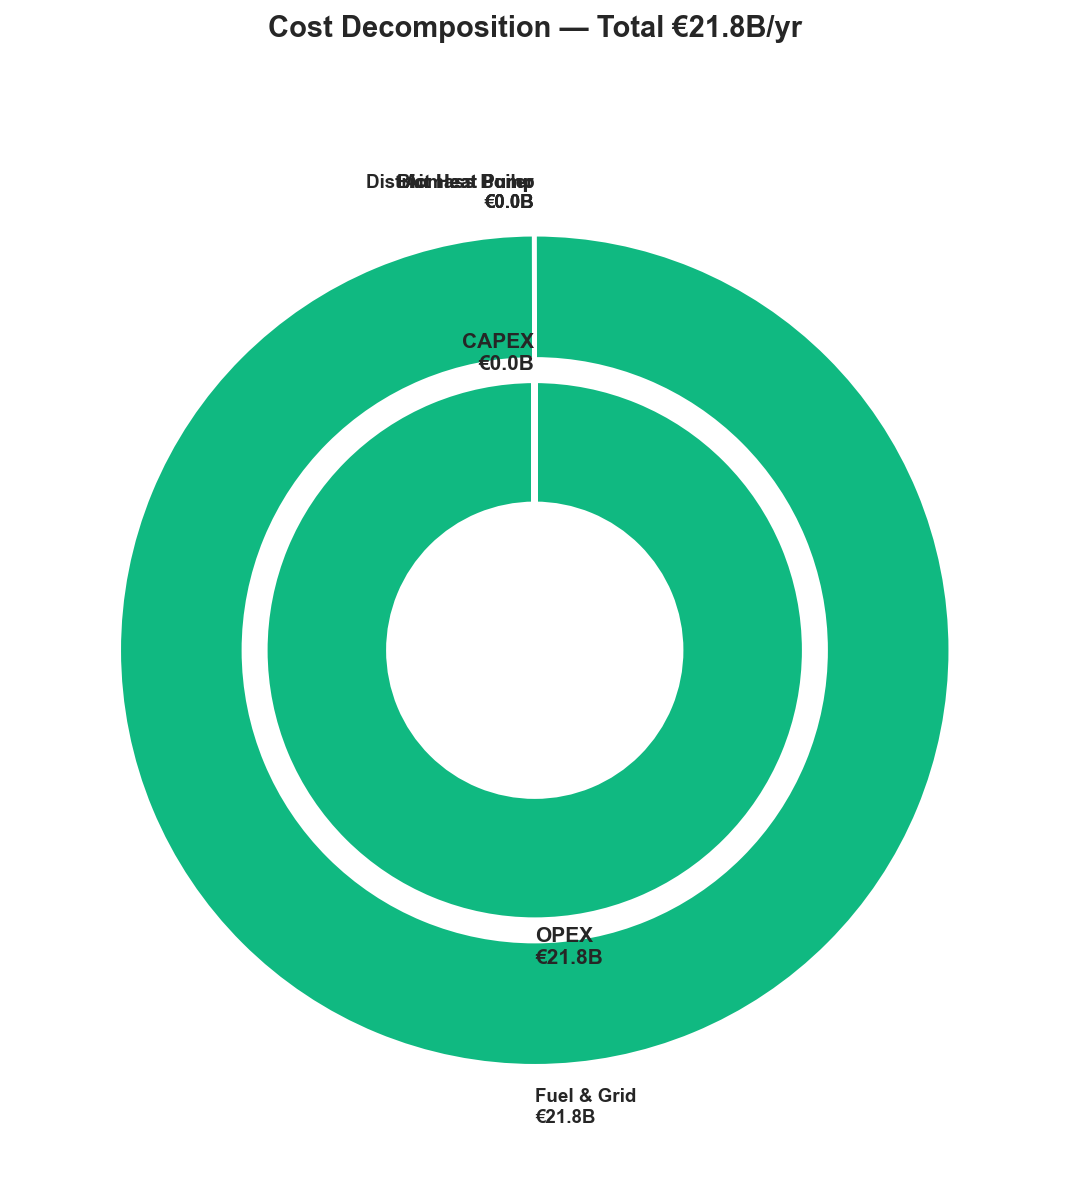
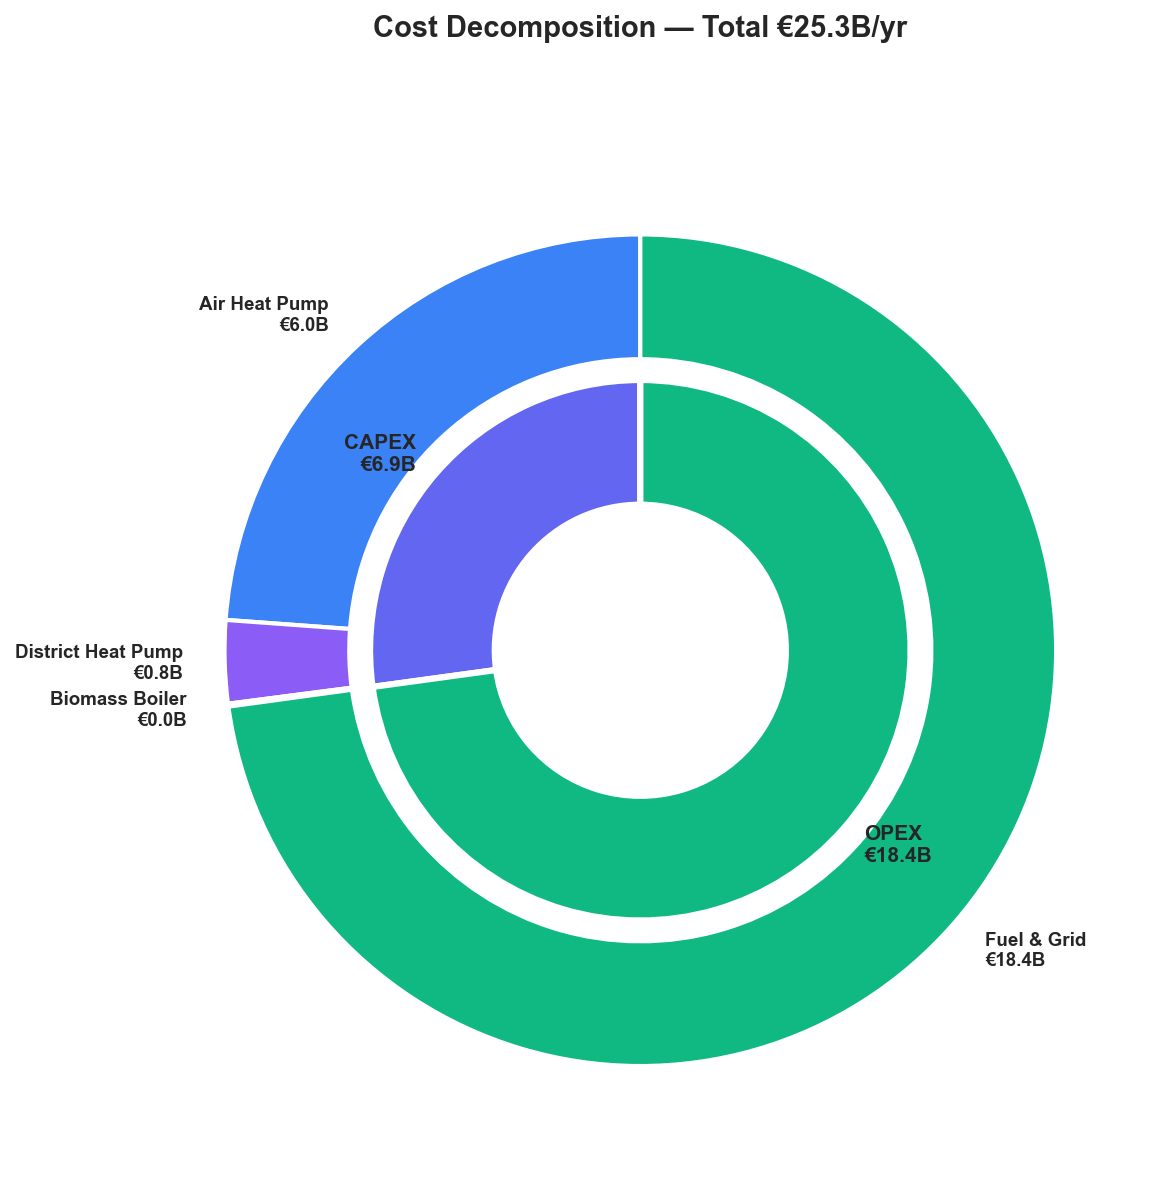
fix: Correct units for CAPEX and indirect emissions plotting

diff --git a/projects/14-german-heat-decarbonization-fine-mga/src/plotting.py b/projects/14-german-heat-decarbonization-fine-mga/src/plotting.py
@@ -66,22 +66,46 @@ def plot_pareto_frontier(df, output_path=None):
     """
     fig, ax = plt.subplots(figsize=(9, 6.5), dpi=150)
     
-    max_pts = df[df["objective_type"] == "max_acceptance"].sort_values("system_cost_billion")
-    min_pts = df[df["objective_type"] == "min_acceptance"].sort_values("system_cost_billion")
-    base_pt = df[df["objective_type"] == "cost_optimal"].iloc[0]
+    # Extract Pareto-dominant points for Max Acceptance
+    max_candidates = df[df["objective_type"].isin(["max_acceptance", "cost_optimal_exogenous"])].sort_values("system_cost_billion")
+    pareto_max_x = []
+    pareto_max_y = []
+    pareto_max_eps = []
+    current_max_acc = -np.inf
     
-    all_x = pd.concat([max_pts["system_cost_billion"], min_pts["system_cost_billion"].iloc[::-1]])
-    all_y = pd.concat([max_pts["social_acceptance_index"], min_pts["social_acceptance_index"].iloc[::-1]])
+    for idx, row in max_candidates.iterrows():
+        if row["social_acceptance_index"] > current_max_acc:
+            pareto_max_x.append(row["system_cost_billion"])
+            pareto_max_y.append(row["social_acceptance_index"])
+            pareto_max_eps.append(row["epsilon"])
+            current_max_acc = row["social_acceptance_index"]
+            
+    # Extract Pareto-dominant points for Min Acceptance (worst case)
+    min_candidates = df[df["objective_type"].isin(["min_acceptance", "cost_optimal_exogenous"])].sort_values("system_cost_billion")
+    pareto_min_x = []
+    pareto_min_y = []
+    current_min_acc = np.inf
+    
+    for idx, row in min_candidates.iterrows():
+        if row["social_acceptance_index"] < current_min_acc:
+            pareto_min_x.append(row["system_cost_billion"])
+            pareto_min_y.append(row["social_acceptance_index"])
+            current_min_acc = row["social_acceptance_index"]
+            
+    base_pt = df[df["objective_type"] == "cost_optimal_exogenous"].iloc[0]
+    
+    all_x = pareto_max_x + pareto_min_x[::-1]
+    all_y = pareto_max_y + pareto_min_y[::-1]
     
     # Fill feasibility space
     ax.fill(all_x, all_y, color="#c084fc", alpha=0.15, label="Socio-Technical Flexibility Space")
     
     # Plot curves
-    ax.plot(max_pts["system_cost_billion"], max_pts["social_acceptance_index"],
+    ax.plot(pareto_max_x, pareto_max_y,
             color="#8b5cf6", linestyle="-", linewidth=2.5, marker="o", markersize=6,
             label="Social Feasibility Frontier (Max)")
             
-    ax.plot(min_pts["system_cost_billion"], min_pts["social_acceptance_index"],
+    ax.plot(pareto_min_x, pareto_min_y,
             color="#64748b", linestyle="--", linewidth=1.5, marker="v", markersize=5,
             label="Worst Social Case (Min)")
             
@@ -91,12 +115,13 @@ def plot_pareto_frontier(df, output_path=None):
                label="Cost-Optimal Baseline (ε = 0%)")
                
     # Annotate points
-    for idx, row in max_pts.iterrows():
-        eps_pct = int(row["epsilon"] * 100)
-        ax.annotate(f"ε={eps_pct}%",
-                    xy=(row["system_cost_billion"], row["social_acceptance_index"]),
-                    xytext=(8, -3), textcoords="offset points",
-                    fontsize=9, weight="600", color="#7c3aed")
+    for x, y, eps in zip(pareto_max_x, pareto_max_y, pareto_max_eps):
+        if eps > 0:
+            eps_pct = int(eps * 100)
+            ax.annotate(f"ε={eps_pct}%",
+                        xy=(x, y),
+                        xytext=(8, -3), textcoords="offset points",
+                        fontsize=9, weight="600", color="#7c3aed")
                     
     ax.set_title("Cost-Acceptance Pareto Frontier (Germany 2045)", fontsize=14, weight="700", pad=15)
     ax.set_xlabel("Annual Heat System Cost [Billion EUR / year]", fontsize=11, labelpad=10)
@@ -106,6 +131,7 @@ def plot_pareto_frontier(df, output_path=None):
     ax.tick_params(colors="#475569", labelsize=10)
     
     if output_path:
+        plt.tight_layout()
         plt.savefig(output_path, bbox_inches="tight")
         plt.close(fig)
     else:
@@ -505,7 +531,7 @@ def plot_cost_decomposition_sunburst(metrics_dict, output_path=None):
             from src.config import CAPEX as CAPEX_DICT, LIFETIME as LIFETIME_DICT, FOM as FOM_DICT, get_annuity as _annuity
             ann = _annuity(CAPEX_DICT[t], LIFETIME_DICT[t])
             fom = CAPEX_DICT[t] * FOM_DICT[t]
-            capex_by_tech[t] = (ann + fom) * cap_gw * 1000 / 1e9  # Billion EUR
+            capex_by_tech[t] = (ann + fom) * cap_gw * 1e-3  # Billion EUR
         else:
             capex_by_tech[t] = 0.0
     

diff --git a/projects/14-german-heat-decarbonization-fine-mga/src/model.py b/projects/14-german-heat-decarbonization-fine-mga/src/model.py
@@ -674,7 +674,7 @@ def compute_indirect_emissions(esM, data_df):
             # Electricity consumed = heat output / COP
             cop = 3.0 if "air" in fine_name else 3.2
             elec_kwh = gen_kwh / cop
-            co2_mt = elec_kwh * avg_grid_co2 / 1e9  # kWh * gCO2/kWh / 1e9 = MtCO2
+            co2_mt = elec_kwh * avg_grid_co2 / 1e12  # kWh * gCO2/kWh / 1e12 = MtCO2
             arch_indirect += co2_mt
         result[f"co2_indirect_{a}_mt"] = arch_indirect
         total_indirect += arch_indirect